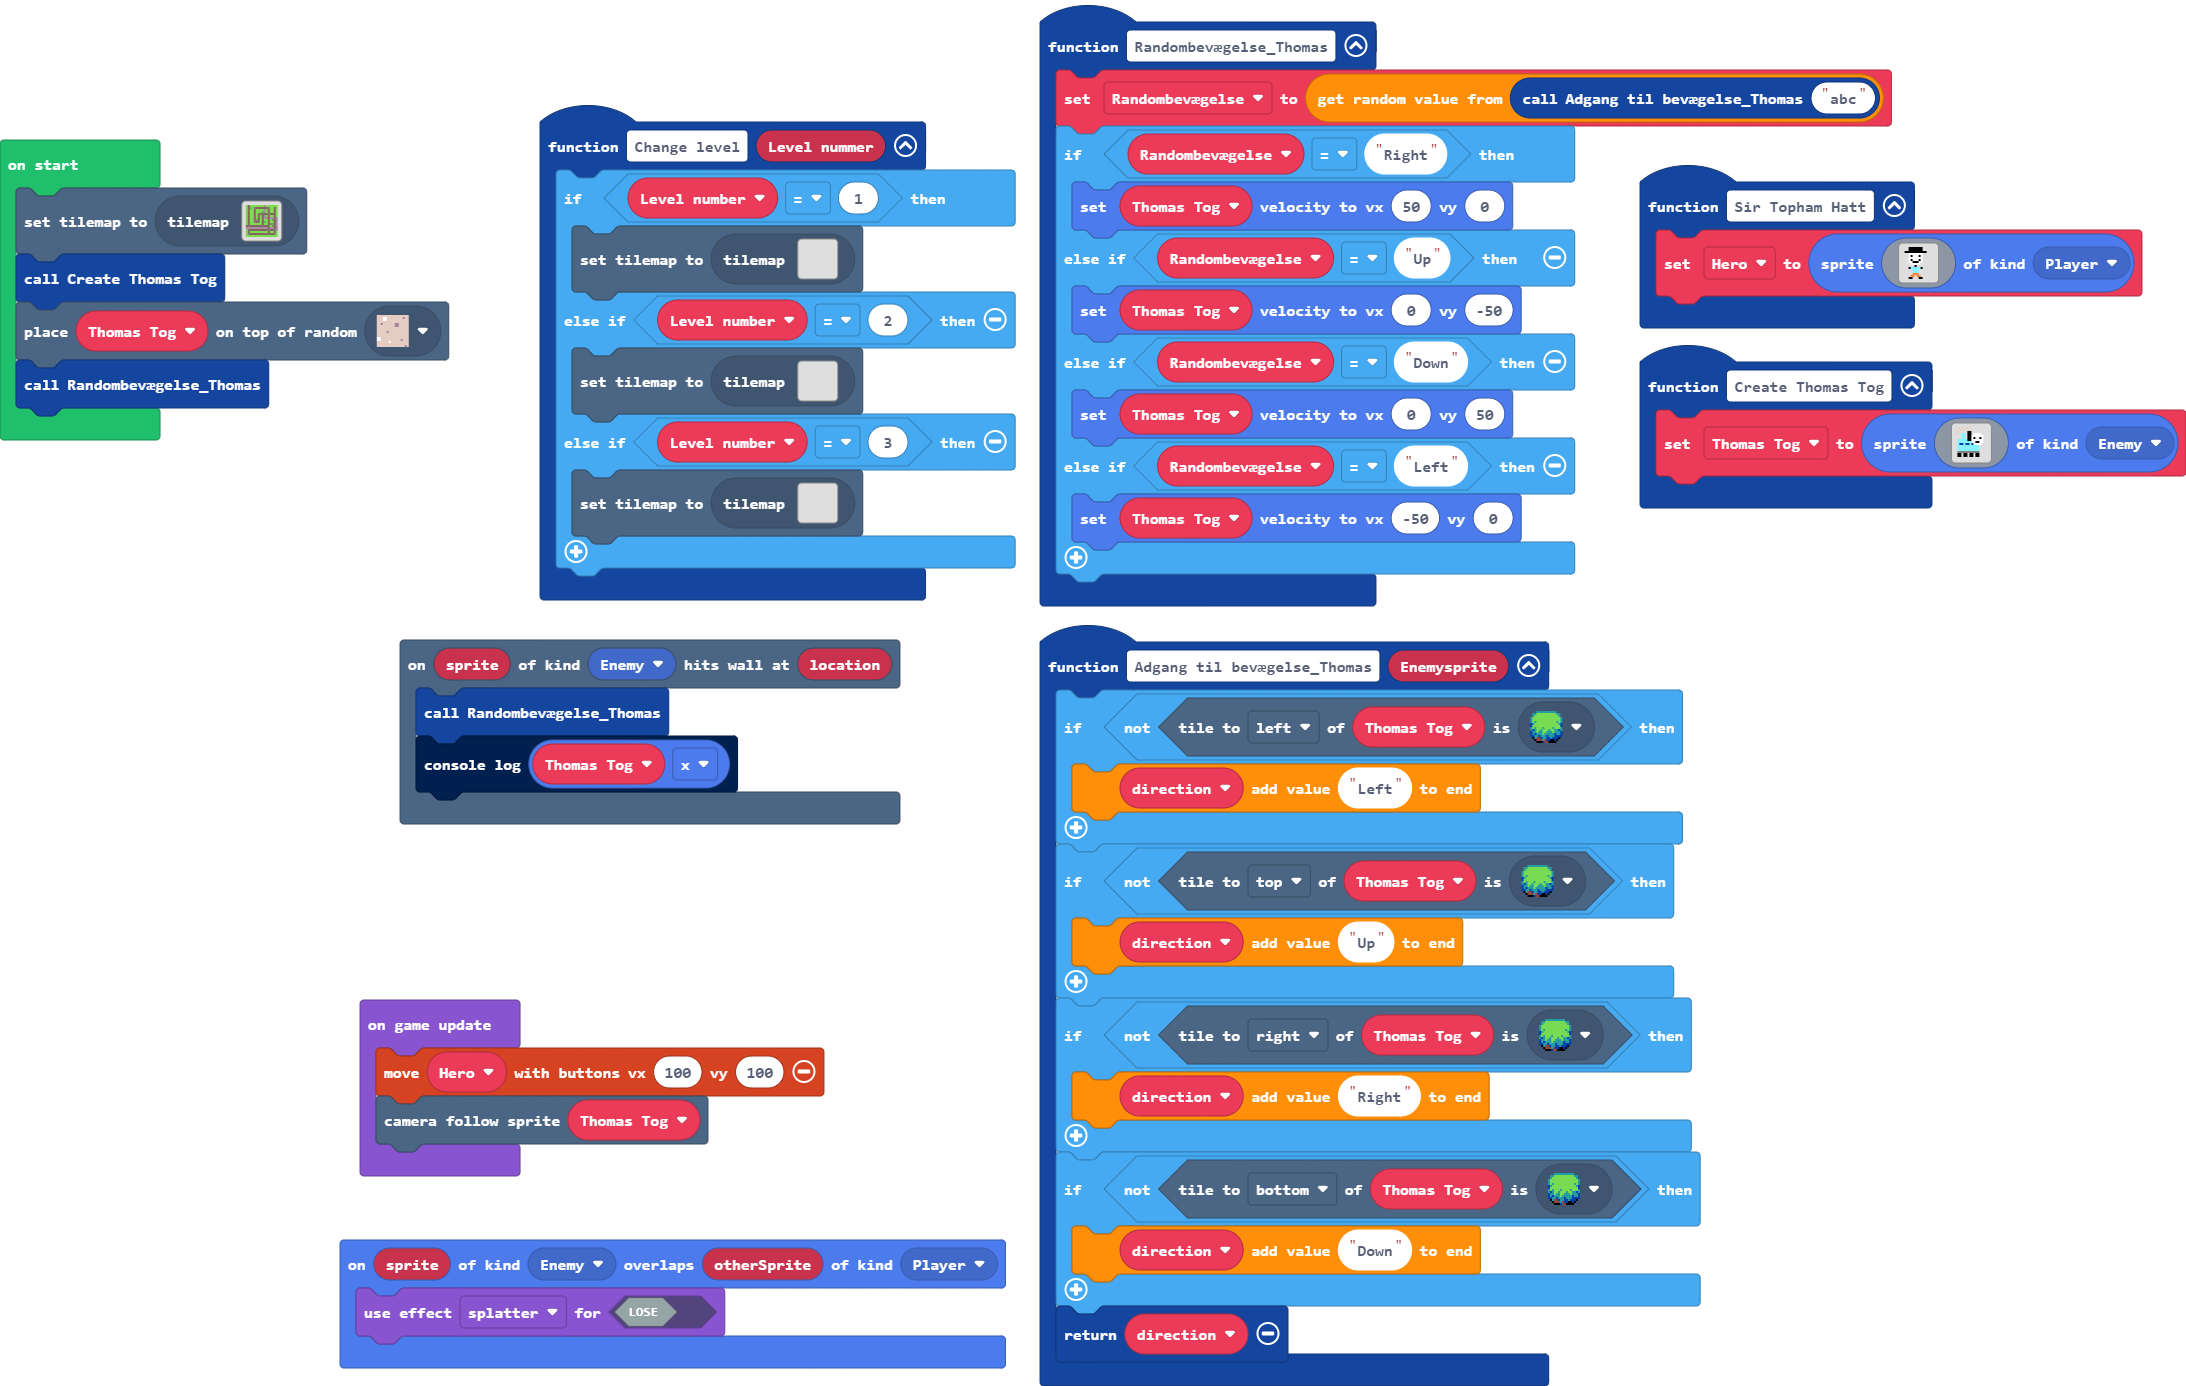
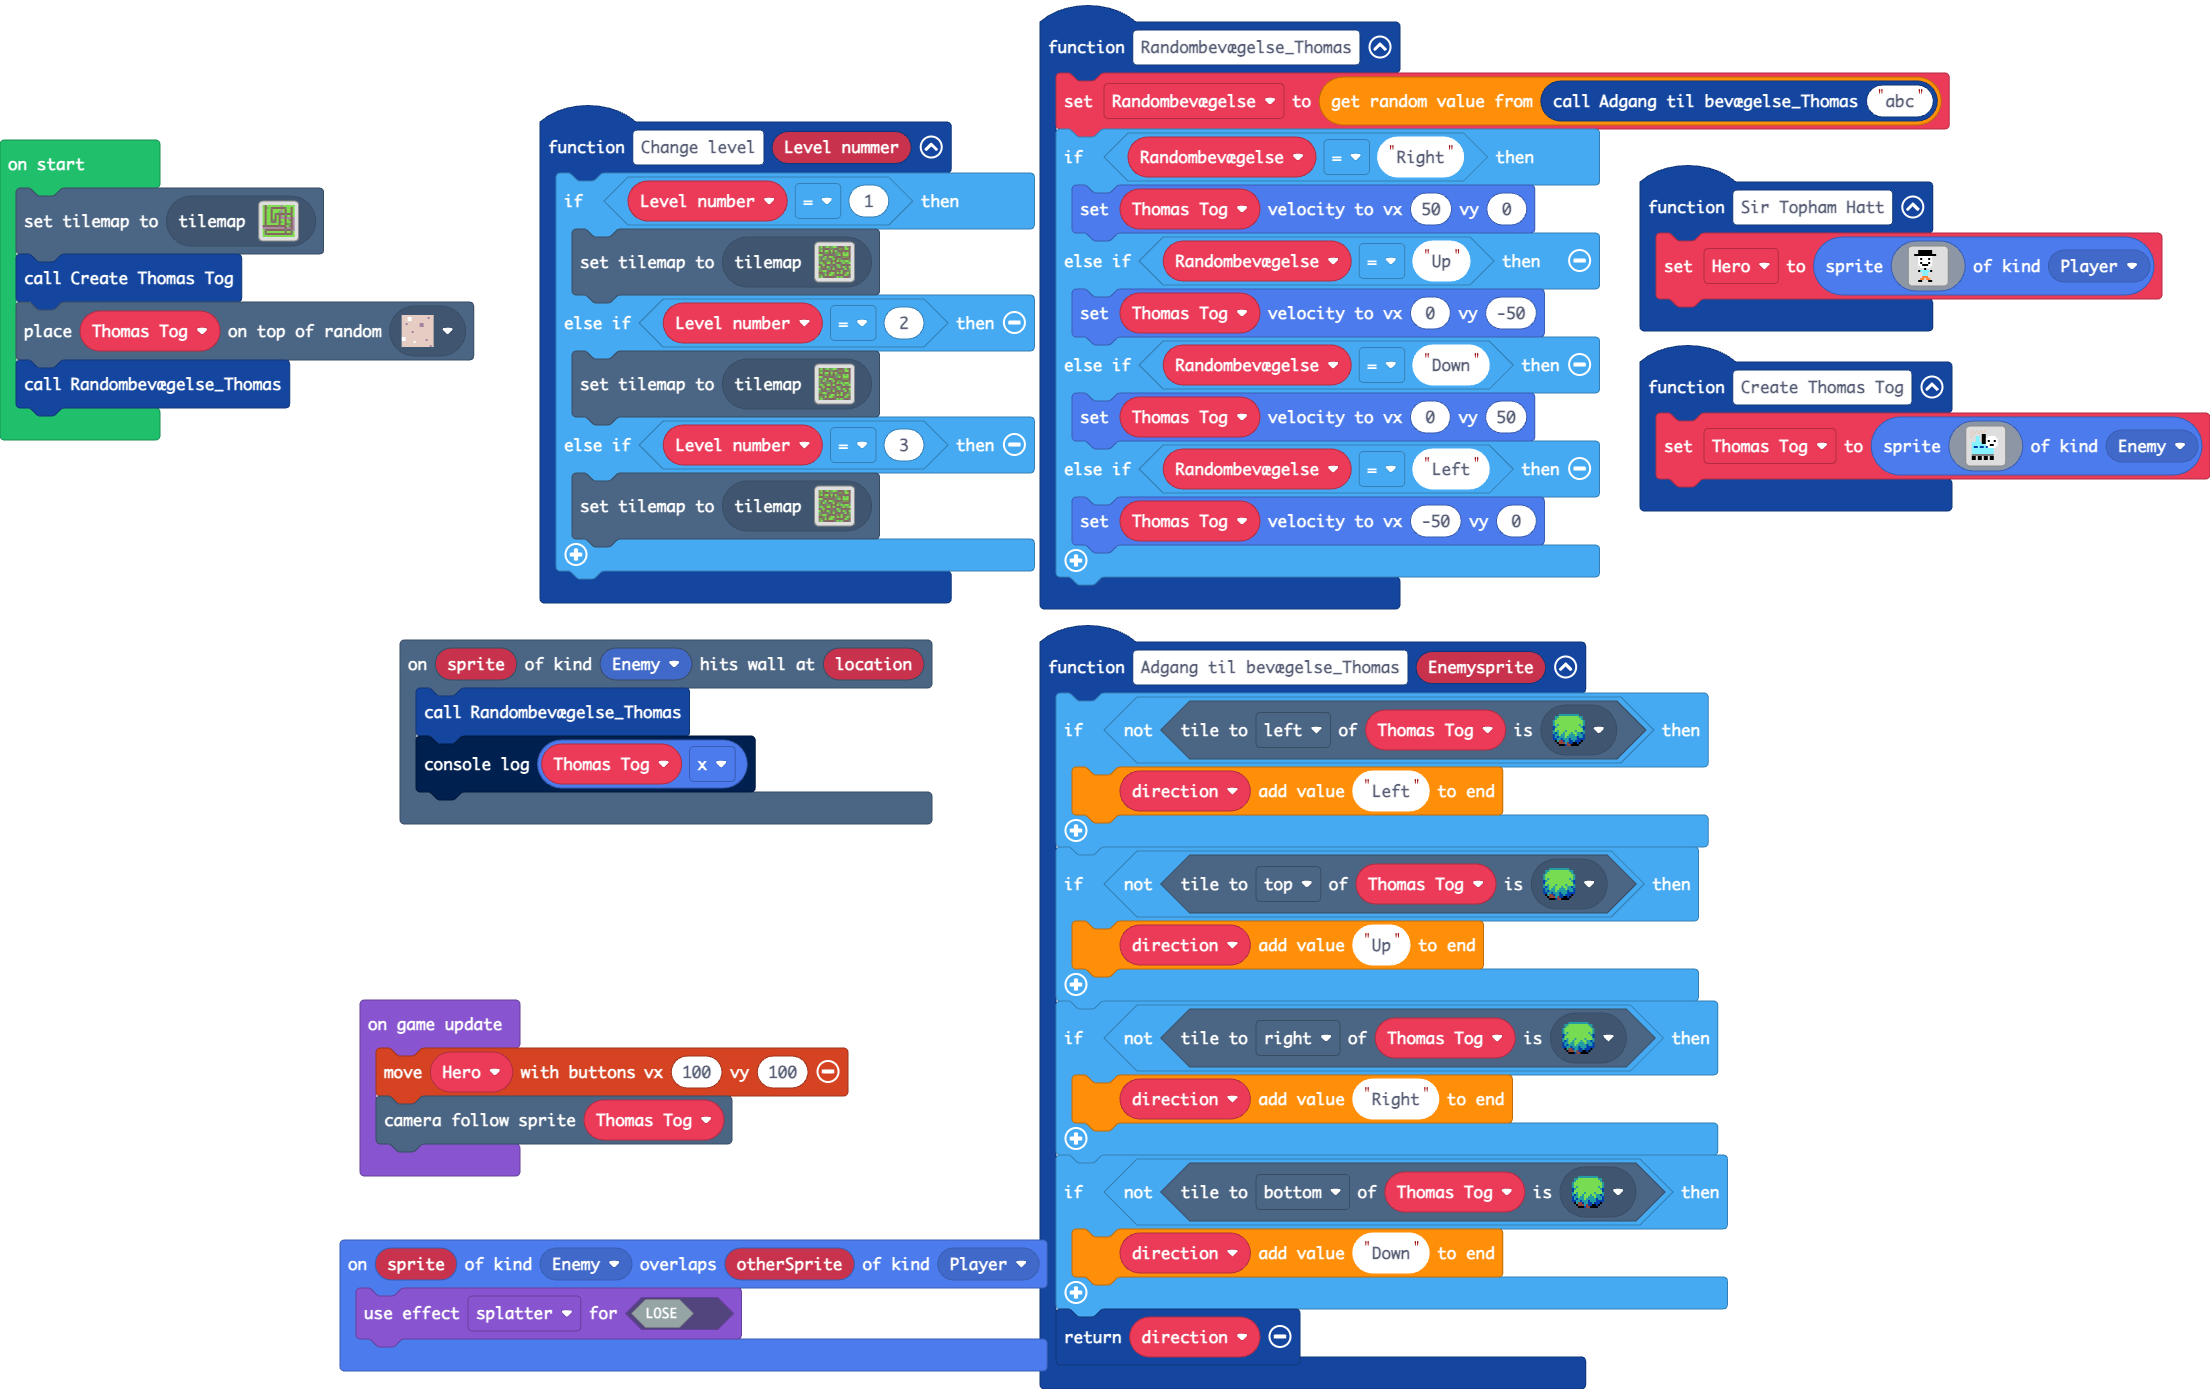
Level 2 tilemap

diff --git a/tilemap.g.ts b/tilemap.g.ts
@@ -54,25 +54,6 @@ namespace myTiles {
 . . . . . . . . . . . . . . . . 
 . . . . . . . . . . . . . . . . 
 `, [myTiles.transparency16], TileScale.Sixteen);
-            case "level4":
-            case "level4":return tiles.createTilemap(hex`1000100000000000000000000000000000000000000000000000000000000000000000000000000000000000000000000000000000000000000000000000000000000000000000000000000000000000000000000000000000000000000000000000000000000000000000000000000000000000000000000000000000000000000000000000000000000000000000000000000000000000000000000000000000000000000000000000000000000000000000000000000000000000000000000000000000000000000000000000000000000000000000000000000000000000000000000000000000000000000000000000000000000000000000000000000000000000`, img`
-. . . . . . . . . . . . . . . . 
-. . . . . . . . . . . . . . . . 
-. . . . . . . . . . . . . . . . 
-. . . . . . . . . . . . . . . . 
-. . . . . . . . . . . . . . . . 
-. . . . . . . . . . . . . . . . 
-. . . . . . . . . . . . . . . . 
-. . . . . . . . . . . . . . . . 
-. . . . . . . . . . . . . . . . 
-. . . . . . . . . . . . . . . . 
-. . . . . . . . . . . . . . . . 
-. . . . . . . . . . . . . . . . 
-. . . . . . . . . . . . . . . . 
-. . . . . . . . . . . . . . . . 
-. . . . . . . . . . . . . . . . 
-. . . . . . . . . . . . . . . . 
-`, [myTiles.transparency16], TileScale.Sixteen);
             case "level5":
             case "level5":return tiles.createTilemap(hex`1000100000000000000000000000000000000000000000000000000000000000000000000000000000000000000000000000000000000000000000000000000000000000000000000000000000000000000000000000000000000000000000000000000000000000000000000000000000000000000000000000000000000000000000000000000000000000000000000000000000000000000000000000000000000000000000000000000000000000000000000000000000000000000000000000000000000000000000000000000000000000000000000000000000000000000000000000000000000000000000000000000000000000000000000000000000000000`, img`
 . . . . . . . . . . . . . . . . 
@@ -168,6 +149,25 @@ namespace myTiles {
 2 . . . . . . . . . . . . . . 2 
 2 2 2 2 2 2 2 2 2 2 2 2 2 2 2 2 
 `, [myTiles.transparency16,myTiles.tile1,myTiles.tile2,myTiles.tile3,myTiles.tile4,myTiles.tile5,myTiles.tile6,myTiles.tile7,myTiles.tile8,sprites.castle.tileGrass1,myTiles.tile9,myTiles.tile11,myTiles.tile13,sprites.vehicle.roadHorizontal,sprites.vehicle.roadVertical,sprites.vehicle.roadTurn3,sprites.vehicle.roadTurn2,sprites.vehicle.roadIntersection4,myTiles.tile14,myTiles.tile15], TileScale.Sixteen);
+            case "Level 2 Tilemap":
[1 lines of base64/hex data omitted]
+. . . . . . . . . . . . . . . . 
+. . . . . . . . . . . . . . . . 
+. . . . . . . . . . . . . . . . 
+. . . . . . . . . . . . . . . . 
+. . . . . . . . . . . . . . . . 
+. . . . . . . . . . . . . . . . 
+. . . . . . . . . . . . . . . . 
+. . . . . . . . . . . . . . . . 
+. . . . . . . . . . . . . . . . 
+. . . . . . . . . . . . . . . . 
+. . . . . . . . . . . . . . . . 
+. . . . . . . . . . . . . . . . 
+. . . . . . . . . . . . . . . . 
+. . . . . . . . . . . . . . . . 
+. . . . . . . . . . . . . . . . 
+. . . . . . . . . . . . . . . . 
+`, [myTiles.transparency16,myTiles.tile1,myTiles.tile2,myTiles.tile3,myTiles.tile4,myTiles.tile5,myTiles.tile6,myTiles.tile8,myTiles.tile9,myTiles.tile10,myTiles.tile11,myTiles.tile12,myTiles.tile13,myTiles.tile14,myTiles.tile15,sprites.castle.tileGrass1], TileScale.Sixteen);
         }
         return null;
     })

diff --git a/main.ts b/main.ts
@@ -39,11 +39,11 @@ sprites.onOverlap(SpriteKind.Enemy, SpriteKind.Player, function (sprite, otherSp
 function Change_level (Level_nummer: string) {
     let Level_number = 0
     if (Level_number == 1) {
-        tiles.setCurrentTilemap(tilemap`level4`)
+        tiles.setCurrentTilemap(tilemap`Level 2 Tilemap`)
     } else if (Level_number == 2) {
-        tiles.setCurrentTilemap(tilemap`level4`)
+        tiles.setCurrentTilemap(tilemap`Level 2 Tilemap`)
     } else if (Level_number == 3) {
-        tiles.setCurrentTilemap(tilemap`level4`)
+        tiles.setCurrentTilemap(tilemap`Level 2 Tilemap`)
     }
 }
 function Sir_Topham_Hatt () {
